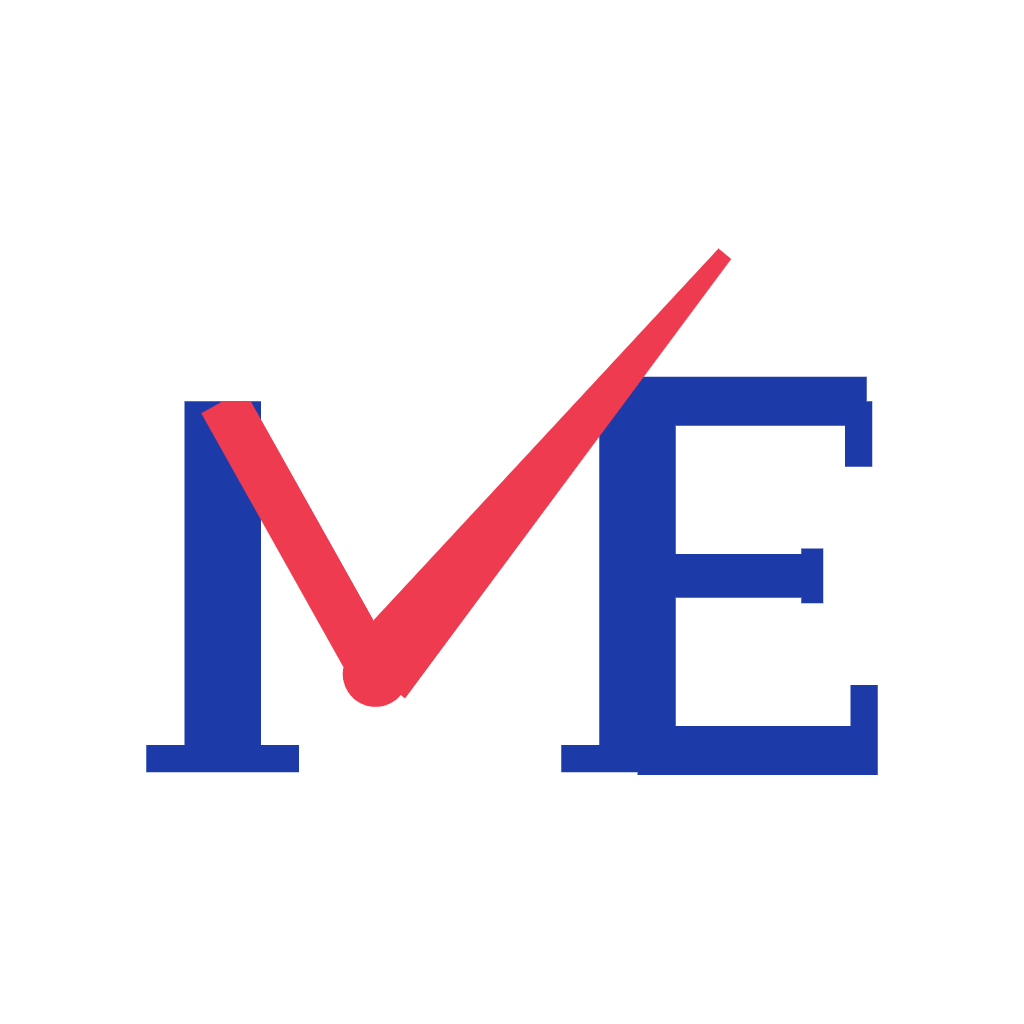
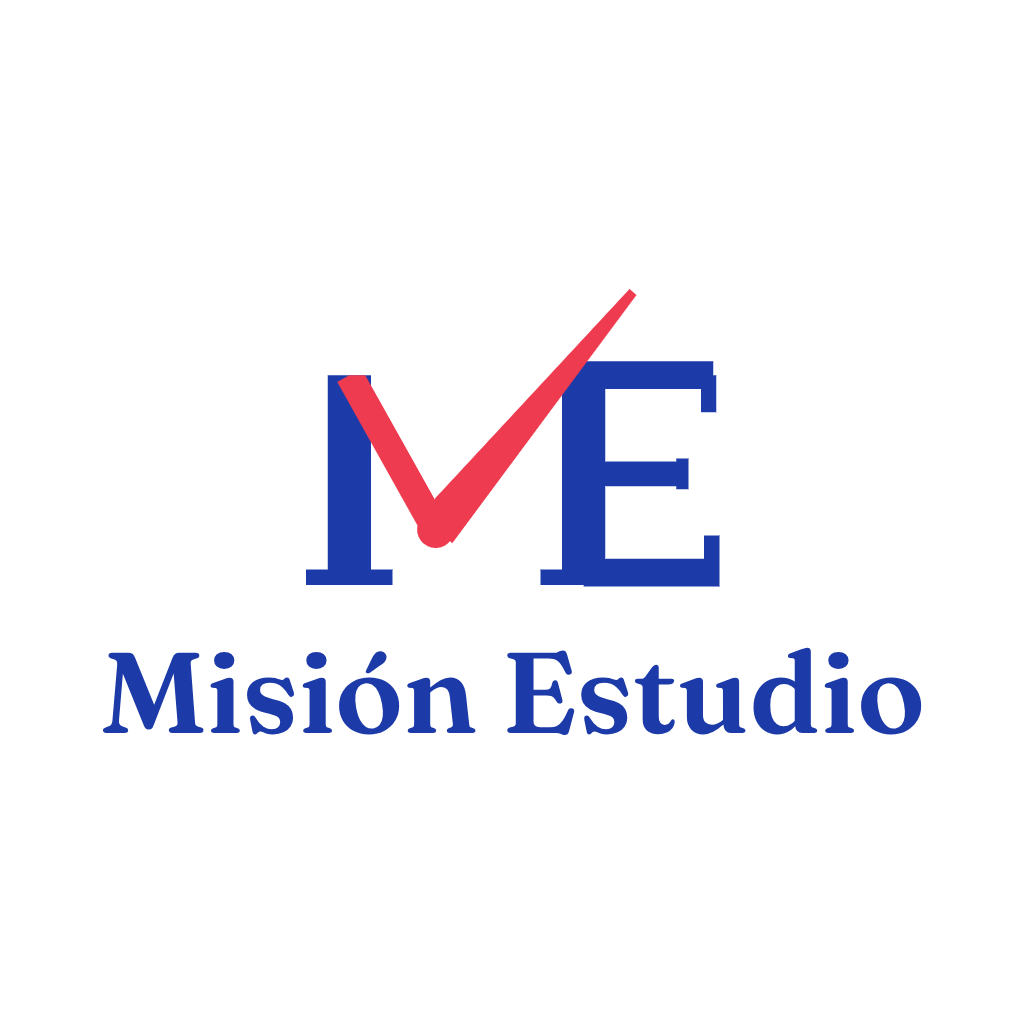
Marca: el icono de la app lleva también «Misión Estudio» debajo del ME, sobre fondo blanco
Claude-Session: https://claude.ai/code/session_014KjCzG9XPqmpSmabwLsJiP

Changed region(s): [[0.0938, 0.25, 0.9062, 0.7812]]

diff --git a/ESTADO.md b/ESTADO.md
@@ -53,7 +53,7 @@ Se actualiza al cerrar cada sesión. Lo esencial manda sobre lo demás: lo extra
 - **Divisiones guiadas que parecen paradas (Mates, en producción).** ✅ (21-nov, en `motor-beta/`, el padre dijo «sí»): las cifras que se pueden tocar van en amarillo con borde y un pulso suave (tres veces; nada si el dispositivo pide menos movimiento), y el texto dice «toca… en amarillo». Al bajar la cifra solo se marcan las que aún no se han usado. El verificador comprueba ahora que la cifra que hay que tocar se ve tocable sin ratón (control positivo: sin el amarillo da FALLO). Probado por el padre en la tablet el 22-nov («están bien») y **pasado a `motor/`** ese día, solo este cambio y el del sonido, sin el logo.
 - **La animación de entrada con el logo con descriptor.** ✅ (21-nov, en `motor-beta/`): ronda 11 del artefacto del logo, el padre eligió la E3 «Trazo y brillo» con el nombre ya relleno desde el principio (versión 2). El contorno del ME se dibuja mientras entra «Misión Estudio», se rellena, sale «Juegos de estudio de primaria», se dibuja el visto y cruza un brillo (unos 3 s, la primera vez del día, se salta tocando). Ya no es vídeo: se dibuja con `marca/descriptor-negativo.svg`, azul sobre claro por la mañana y blanco el resto; con menos movimiento, el logo quieto. Va con la beta del logo (menú beta). El padre (21-nov): es la entrada definitiva de la app y pasa a producción **todo junto con la beta del logo**, cuando él dé su opinión de las comprobaciones.
 - **Quitar el sonido al tocar las teclas.** ✅ (21-nov, en `motor-beta/piel.js`): el sonido `tap` ya no suena en ningún sitio (teclado, fichas, menú, botones); se quedan acertar, fallar, estrellas, sello, fanfarria y cuenta atrás. **Pasado a `motor/` el 22-nov** junto con las divisiones.
-- **Comprobaciones de la beta del logo (el padre, 22-nov).** La entrada y las cabeceras, bien. El icono de la app pasa al ME en color **sobre fondo blanco** (el logo oficial, no el de fondo azul): hecho en `marca/icono-app.svg` y sus PNG; se instala al pasar a producción. Se quedan los dos sellos en el examen aprobado, falta cómo se sincronizan. La ruta pasa al menú de la suite: al tocar Mates, el mapa con el cohete en el hueco de la derecha (en tablet), y siempre se pasa por él para empezar. Ronda 12 del artefacto del logo (almacén `elecciones/ruta-sellos`): M1, M2 o M3 para la ruta y S1, S2 o S3 para los sellos. Con lo que elija se hace en la beta, la vuelve a mirar y después pasa todo junto a producción.
+- **Comprobaciones de la beta del logo (el padre, 22-nov).** La entrada y las cabeceras, bien. El icono de la app pasa al logo oficial: el ME en color con «Misión Estudio» debajo, **sobre fondo blanco** (no el de fondo azul): hecho en `marca/icono-app.svg` y sus PNG; se instala al pasar a producción. Se quedan los dos sellos en el examen aprobado, falta cómo se sincronizan. La ruta pasa al menú de la suite: al tocar Mates, el mapa con el cohete en el hueco de la derecha (en tablet), y siempre se pasa por él para empezar. Ronda 12 del artefacto del logo (almacén `elecciones/ruta-sellos`): M1, M2 o M3 para la ruta y S1, S2 o S3 para los sellos. Con lo que elija se hace en la beta, la vuelve a mirar y después pasa todo junto a producción.
 - **Arcade de Mates (22-nov).** Cada juego tiene su propio arcade: el de Inglés se queda con sus cuatro modos; Mates U3 tendrá dos juegos propios. Artefacto «Arcade de Misión Estudio» (https://claude.ai/artifact/5ywjvzPspyCzouPoDiPdeB, almacén `elecciones/arcade-mates`): el padre eligió la A1, «Cohete del Saber» (reflejos: reventar asteroides que cumplen la consigna) y «La Torre del Jefe» (duelo por turnos; el golpe fuerte se gana escribiendo cociente y resto), con Phaser, ZzFX y arte propio. Preguntas de la ronda 1, las recomendadas: se abre como hoy, partidas de 2-3 min, los cuatro modos de hoy se quitan de Mates, sin prisa por el examen del 27. Falta: la ronda 2 (diez preguntas del plan) y, después, el plan y la beta. Es extra.
 - En la beta del logo, el examen aprobado tiene dos sellos (el de la nota y el de misión cumplida): decidir si se quedan los dos.
 
